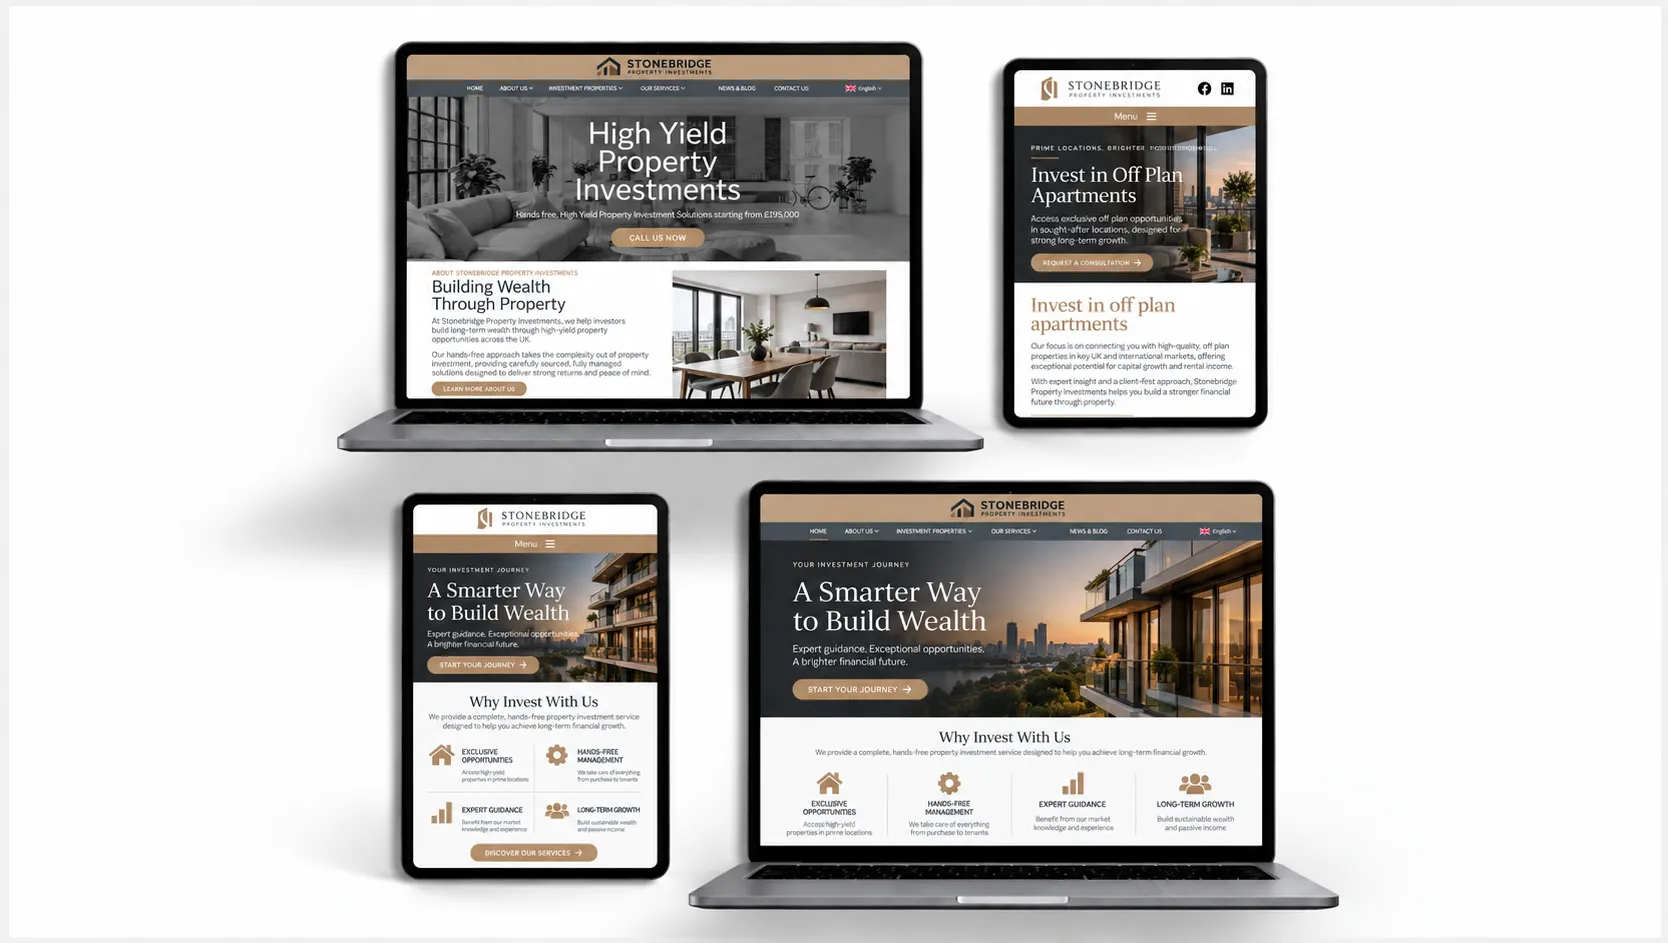
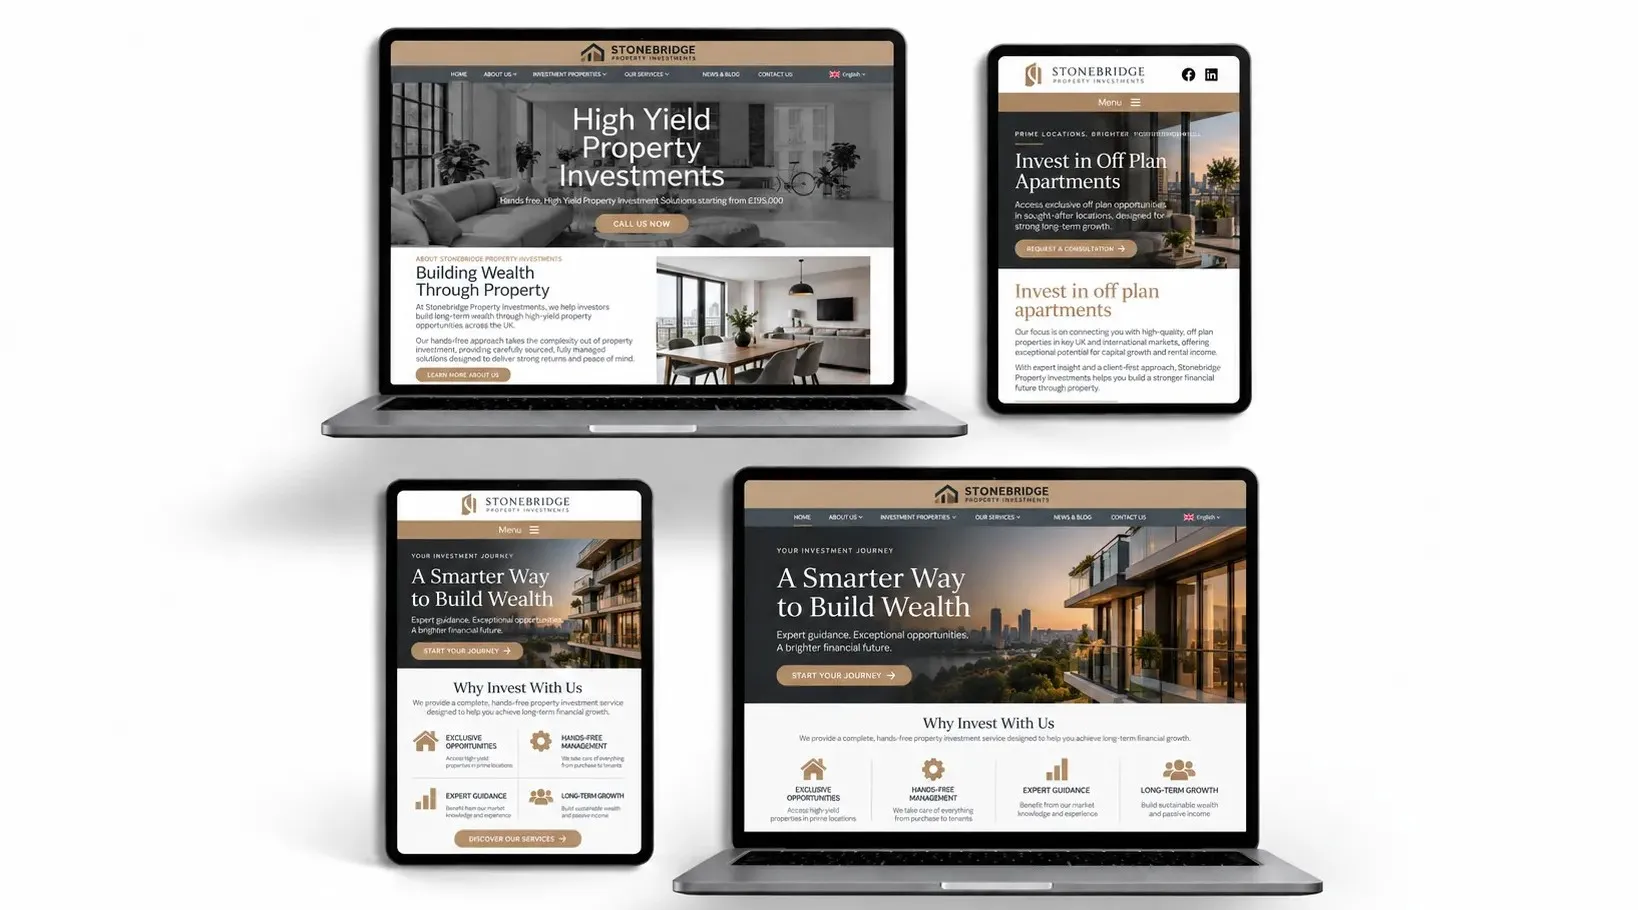
Update property cover image with further border fix

Changed region(s): [[0.1868, 0.0308, 0.8095, 0.9846], [0.5916, 0.0308, 0.7784, 0.4615]]

diff --git a/work/index.html b/work/index.html
@@ -142,7 +142,7 @@
                 </div>
               </a>
               <a class="showcase-visual" href="../case-studies/property-content/">
-                <img class="showcase-visual-image" src="../assets/case-studies/property-content/stonebridgepropertyinvestments-cover.webp" alt="Desktop homepage of the Stonebridge Property Investments website" loading="lazy" width="1668" height="943">
+                <img class="showcase-visual-image" src="../assets/case-studies/property-content/stonebridgepropertyinvestments-cover.webp" alt="Desktop homepage of the Stonebridge Property Investments website" loading="lazy" width="1638" height="910">
                 <div class="showcase-visual-overlay">
                   <h3>Restructuring website content for a property business</h3>
                   <p>Bringing a complex range of property services into a clearer structure.</p>

diff --git a/case-studies/property-content/index.html b/case-studies/property-content/index.html
@@ -84,7 +84,7 @@
         </div>
 
         <div class="case-study-placeholder">
-          <img class="case-study-placeholder-image case-study-placeholder-image-zoom-out" src="../../assets/case-studies/property-content/stonebridgepropertyinvestments-cover.webp" alt="Desktop homepage of the Stonebridge Property Investments website" loading="lazy" width="1668" height="943">
+          <img class="case-study-placeholder-image case-study-placeholder-image-zoom-out" src="../../assets/case-studies/property-content/stonebridgepropertyinvestments-cover.webp" alt="Desktop homepage of the Stonebridge Property Investments website" loading="lazy" width="1638" height="910">
         </div>
 
         <div class="case-study-overview">
